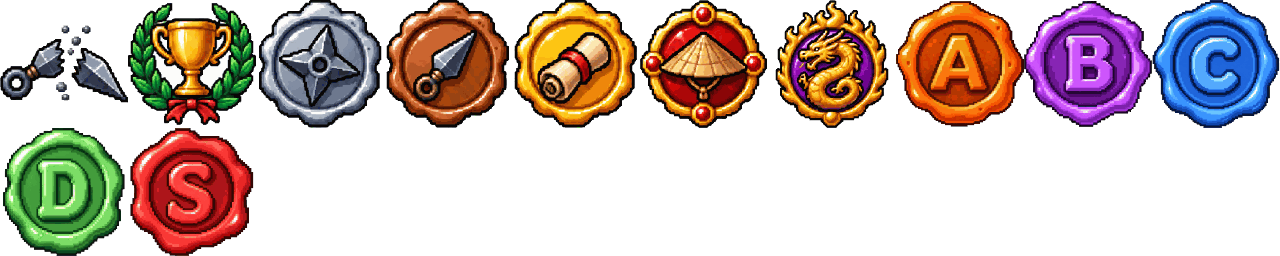
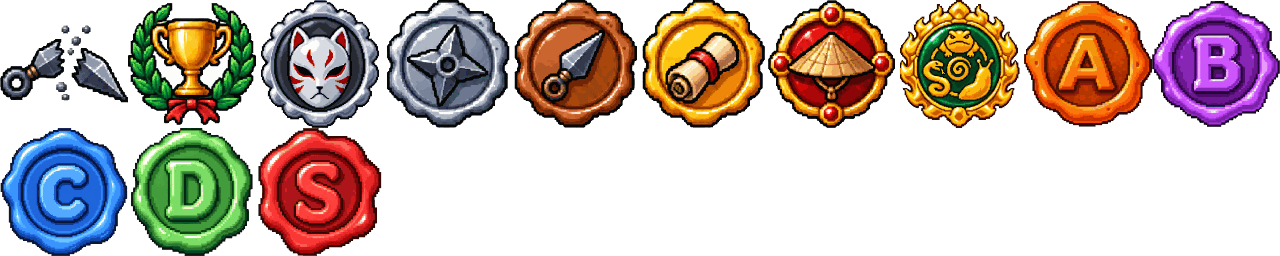
Duelos: ligas com as patentes ninja (Genin a Sannin, com ANBU) e defesas redesenhadas
Ligas: Genin, Chunin, Jounin, ANBU (1400), Kage (1550) e Sannin (1700),
com emblemas novos de ANBU (máscara) e Sannin (sapo, serpente e lesma)
no lugar da "liga das lendas". Defesas: números em blocos (desafios,
segurou, perdeu, pontos) e linhas com o boneco e a liga de quem atacou
(o servidor passa a mandar o retrato e os pontos do atacante), borda
verde/vermelha; o aviso "Enquanto você estava fora" usa o mesmo relatório
sobre o fundo da arena. Pedaços compartilhados em ui/duelArt.ts.

diff --git a/src/ui/panel.ts b/src/ui/panel.ts
@@ -1,7 +1,6 @@
 // Painel lateral de detalhes. Estrutura HTML só é recriada quando muda;
 // valores dinâmicos (barras, números) são atualizados in-place via data-t / data-b.
 import type { App } from '../app';
-import type { Game } from '../game/game';
 import { ANIMALS } from '../data/animals';
 import { BUILDINGS, defOf } from '../data/buildings';
 import { ROGUE_ROLES } from '../data/enemies';
@@ -63,8 +62,9 @@ import { AWAKEN_COST, awakenKekkei, awakenOptions, canFoundClan, clanMembers, cl
 import { KEKKEI, KEKKEI_LIST, KEKKEI_STAT, type KekkeiId } from '../data/kekkei';
 import { arenaSpots, EXAM_MIN_LEVEL, examLabel, examSize, examStatus, setExamSize, startExam } from '../game/exam';
 import { duelBlock, duelCandidates, duelist, setDuelist, startDuel } from '../game/duel';
-import { decodeSnapshot, encodeSnapshot, type NinjaSnapshot, snapshotOf, unitFromSnapshot } from '../game/snapshot';
+import { decodeSnapshot, encodeSnapshot, type NinjaSnapshot, snapshotOf } from '../game/snapshot';
 import { arena, leagueOf, type NinjaBrief, nextLeague, type Opponent } from './arenaClient';
+import { defenseRow, defenseStats, leagueBadge, snapshotPortrait } from './duelArt';
 import { MISSION_RANKS, MISSION_TYPE_LABEL } from '../data/missions';
 import { ITEM_LIST, ITEMS, SLOT_LABEL, type ItemDef, type ItemSlot } from '../data/items';
 import { autoEquip, cancelCraft, carried, carryMax, craftBlock, enqueueCraft, equip, gearBonus, isWorkshop, owned, recipesOf, stock, unequip, autoEquipAll, setAutoGear } from '../game/gear';
@@ -2489,31 +2489,12 @@ export class Panel {
     return sameDay ? d.toLocaleTimeString('pt-BR', { hour: '2-digit', minute: '2-digit' }) : d.toLocaleDateString('pt-BR', { day: '2-digit', month: '2-digit' });
   }
 
-  /** Emblema da liga pela pontuação (atlas dos selos; sem a arte, só o nome). */
   private leagueBadge(rating: number, cls = 'dl-lg') {
-    const l = leagueOf(rating);
-    return atlasCell(BADGE_RANKS, l.emblem, cls, tipAttr(l.name, `${rating} pontos`, true)) ?? `<span class="mchip" ${tipAttr(l.name, `${rating} pontos`, true)}>${esc(l.name)}</span>`;
+    return leagueBadge(rating, cls);
   }
-
-  /** Retrato (corpo inteiro) do ninja de um retrato recebido: cria a unidade fora do jogo só para desenhar. */
   private snapshotPortrait(code: string): string | null {
-    const hit = Panel.snapPortraits.get(code);
-    if (hit !== undefined) return hit;
-    const snap = decodeSnapshot(code);
-    let url: string | null = null;
-    if (snap) {
-      const u = unitFromSnapshot(Panel.portraitGame, snap, 0, 0);
-      // o penteado sai do id: um id estável pelo nome (ids negativos quebrariam o módulo)
-      u.id = [...snap.name].reduce((a, c) => (a * 31 + c.charCodeAt(0)) % 9973, 7);
-      url = unitPortrait(u, true);
-    }
-    // null = a arte ainda está sendo montada (quem chama mostra o esqueleto e tenta de novo na próxima remontagem)
-    if (url || !snap) Panel.snapPortraits.set(code, url);
-    return url;
+    return snapshotPortrait(code);
   }
-  private static snapPortraits = new Map<string, string | null>();
-  /** "Jogo" mínimo para criar a unidade do retrato sem mexer na vila (createNinja só usa newId e addUnit). */
-  private static portraitGame = { newId: () => -1, addUnit: (u: Unit) => u } as unknown as Game;
 
   /** Jutsus, kekkei e equipamento de um retrato (perfil do adversário). */
   private snapshotProfile(snap: NinjaSnapshot) {
@@ -2645,13 +2626,8 @@ export class Panel {
     let html = `<div class="bsec"><h4>Defesas do seu retrato ${infoTip('Defesas', 'Quem desafiou o seu retrato enquanto você estava fora, e como foi. Revanche: enfrentar o retrato de quem venceu o seu.')}</h4>`;
     if (!d) return html + `<p class="hint">${arena.offline ? 'Sem conexão com o servidor.' : 'Carregando...'}</p></div>`;
     if (!d.defenses.length) return html + `<p class="hint">Ninguém desafiou o seu retrato ainda. Publique-o na aba Duelo para entrar no sorteio.</p></div>`;
-    html += `<ul class="dl-defs">`;
-    for (const x of d.defenses) {
-      const pill = x.left ? `<span class="mpill info">Desistiu</span>` : x.held ? `<span class="mpill safe">Segurou</span>` : `<span class="mpill danger">Perdeu</span>`;
-      html += `<li class="${x.unseen ? 'new' : ''}">${pill}<span class="dl-name"><b>${esc(x.attacker.name)}</b><small>${x.attackerNinja ? `${esc(x.attackerNinja.name)} · ${esc(RANKS[x.attackerNinja.rank as Rank]?.name ?? x.attackerNinja.rank)} Nv ${x.attackerNinja.level}` : ''}</small></span>
-        <span class="dl-delta ${x.defDelta != null && x.defDelta < 0 ? 'bad' : ''}">${x.defDelta == null ? '' : `${x.defDelta >= 0 ? '+' : ''}${x.defDelta}`}</span><small>${this.when(x.at)}</small>
-        ${!x.held && !x.revenged ? `<button class="btn mini" data-act="arena-revenge" data-arg="${x.attacker.id}">{swords} Revanche</button>` : ''}</li>`;
-    }
+    html += defenseStats(d.defenses) + `<ul class="dl-defs">`;
+    for (const x of d.defenses) html += defenseRow(x);
     return html + `</ul></div>`;
   }
 

diff --git a/src/ui/duelArt.ts b/src/ui/duelArt.ts
@@ -1,0 +1,64 @@
+// Pedaços visuais dos duelos usados pela janela Duelos (panel.ts) e pelo aviso "Enquanto você estava fora" (index.ts):
+// boneco de um retrato recebido, emblema da liga e o relatório das defesas.
+import { RANKS, type Rank } from '../data/ninja';
+import type { Game } from '../game/game';
+import { decodeSnapshot, unitFromSnapshot } from '../game/snapshot';
+import type { Unit } from '../game/types';
+import { unitPortrait } from '../render/sprites';
+import { type Defense, leagueOf } from './arenaClient';
+import { esc } from './dom';
+import { atlasCell } from './icons';
+import { tipAttr } from './popup';
+import { BADGE_RANKS } from './pxicons';
+
+/** "Jogo" mínimo para criar a unidade do retrato sem mexer na vila (createNinja só usa newId e addUnit). */
+const portraitGame = { newId: () => -1, addUnit: (u: Unit) => u } as unknown as Game;
+const portraits = new Map<string, string>();
+
+/** Retrato (corpo inteiro) do ninja de um retrato recebido; null enquanto a arte monta (não vai para o cache). */
+export function snapshotPortrait(code: string | null | undefined): string | null {
+  if (!code) return null;
+  const hit = portraits.get(code);
+  if (hit) return hit;
+  const snap = decodeSnapshot(code);
+  if (!snap) return null;
+  const u = unitFromSnapshot(portraitGame, snap, 0, 0);
+  // o penteado sai do id: um id estável pelo nome (ids negativos quebrariam o módulo)
+  u.id = [...snap.name].reduce((a, c) => (a * 31 + c.charCodeAt(0)) % 9973, 7);
+  const url = unitPortrait(u, true);
+  if (url) portraits.set(code, url);
+  return url;
+}
+
+/** Emblema da liga pela pontuação (atlas dos selos; sem a arte, só o nome). */
+export function leagueBadge(rating: number, cls = 'dl-lg') {
+  const l = leagueOf(rating);
+  return atlasCell(BADGE_RANKS, l.emblem, cls, tipAttr(l.name, `${rating} pontos`, true)) ?? `<span class="mchip" ${tipAttr(l.name, `${rating} pontos`, true)}>${esc(l.name)}</span>`;
+}
+
+/** Imagem com esqueleto enquanto carrega (igual ao `pimg` do painel). */
+export const pimg = (url: string | null | undefined, cls = '') =>
+  url ? `<img class="${cls} pim" src="${url}" alt="" draggable="false" decoding="async" loading="lazy" onload="this.classList.add('ok')">` : `<span class="${cls} skel"></span>`;
+
+export function when(iso: string) {
+  const d = new Date(iso);
+  const sameDay = d.toDateString() === new Date().toDateString();
+  return sameDay ? d.toLocaleTimeString('pt-BR', { hour: '2-digit', minute: '2-digit' }) : d.toLocaleDateString('pt-BR', { day: '2-digit', month: '2-digit' });
+}
+
+/** Resumo em números das defesas listadas: desafios, seguradas, perdidas e saldo de pontos. */
+export function defenseStats(list: Defense[]) {
+  const held = list.filter((x) => x.held).length;
+  const delta = list.reduce((s, x) => s + (x.defDelta ?? 0), 0);
+  return `<div class="dl-dstats"><div><b>${list.length}</b><small>desafio(s)</small></div><div class="ok"><b>${held}</b><small>segurou</small></div><div class="bad"><b>${list.length - held}</b><small>perdeu</small></div><div class="${delta >= 0 ? 'ok' : 'bad'}"><b>${delta >= 0 ? '+' : ''}${delta}</b><small>pontos</small></div></div>`;
+}
+
+/** Uma defesa: boneco e liga de quem atacou, nome, ninja, resultado, delta, hora e a revanche (se couber). */
+export function defenseRow(x: Defense, revenge = true) {
+  const pill = x.left ? `<span class="mpill info">Desistiu</span>` : x.held ? `<span class="mpill safe">Segurou</span>` : `<span class="mpill danger">Perdeu</span>`;
+  const ninja = x.attackerNinja ? `${esc(x.attackerNinja.name)} · ${esc(RANKS[x.attackerNinja.rank as Rank]?.name ?? x.attackerNinja.rank)} Nv ${x.attackerNinja.level}` : '';
+  return `<li class="dl-def ${x.unseen ? 'new' : ''} ${x.held ? 'held' : 'lost'}"><span class="dl-face sm">${pimg(snapshotPortrait(x.attackerCode))}</span>
+    <span class="dl-name"><b>${leagueBadge(x.attackerRating, 'dl-lg sm')} ${esc(x.attacker.name)}</b><small>${ninja}</small></span>
+    ${pill}<span class="dl-delta ${x.defDelta != null && x.defDelta < 0 ? 'bad' : ''}">${x.defDelta == null ? '' : `${x.defDelta >= 0 ? '+' : ''}${x.defDelta}`}</span><small class="dl-when">${when(x.at)}</small>
+    ${revenge && !x.held && !x.revenged ? `<button class="btn mini" data-act="arena-revenge" data-arg="${x.attacker.id}">{swords} Revanche</button>` : ''}</li>`;
+}

diff --git a/server/src/services/duels.ts b/server/src/services/duels.ts
@@ -1,7 +1,7 @@
 // Retratos e duelos assíncronos (molde do Duelo do battlecard-server): o jogador publica o retrato do campeão; outro
 // jogador busca um adversário de força parecida, luta no próprio aparelho contra a cópia do retrato e manda o
 // resultado. ELO próprio: K 32 para quem ataca, K 16 para quem defende (o defensor não estava lá).
-import { decodeSnapshot, type NinjaSnapshot } from '../../../src/game/snapshot';
+import { decodeSnapshot, encodeSnapshot, type NinjaSnapshot } from '../../../src/game/snapshot';
 import { STAT_KEYS } from '../../../src/data/ninja';
 import { sql } from '../db';
 import { ApiError } from '../errors';
@@ -54,6 +54,9 @@ export interface Defense {
   at: string;
   attacker: { id: string; name: string };
   attackerNinja: { name: string; rank: string; level: number } | null;
+  /** Retrato (texto VN1) do ninja que atacou e pontos dele: o jogo desenha o boneco e a liga. */
+  attackerCode: string | null;
+  attackerRating: number;
   /** O retrato segurou. */
   held: boolean;
   /** Quem atacou largou o duelo. */
@@ -249,11 +252,11 @@ export const duels = {
   async defenses(userId: string): Promise<{ defenses: Defense[]; unseen: number; rating: number }> {
     const me = await this.stats(userId);
     const [seen] = await sql<Array<{ at: Date | null }>>`SELECT report_seen_at as at FROM duel_stats WHERE user_id = ${userId}`;
-    const rows = await sql<Array<{ id: string; at: Date; attackerId: string; name: string; attackerSnapshot: NinjaSnapshot | null; won: boolean; endReason: string | null; summary: Record<string, unknown> | null; revenged: boolean }>>`
+    const rows = await sql<Array<{ id: string; at: Date; attackerId: string; name: string; attackerSnapshot: NinjaSnapshot | null; attackerRating: number | null; won: boolean; endReason: string | null; summary: Record<string, unknown> | null; revenged: boolean }>>`
       SELECT d.id, d.finished_at as at, a.id as "attackerId", a.display_name as name, d.attacker_snapshot as "attackerSnapshot",
-        d.won, d.end_reason as "endReason", d.summary,
+        ds.rating as "attackerRating", d.won, d.end_reason as "endReason", d.summary,
         EXISTS (SELECT 1 FROM duels r WHERE r.attacker_id = ${userId} AND r.defender_id = a.id AND r.started_at > d.started_at) as revenged
-      FROM duels d JOIN users a ON a.id = d.attacker_id
+      FROM duels d JOIN users a ON a.id = d.attacker_id LEFT JOIN duel_stats ds ON ds.user_id = a.id
       WHERE d.defender_id = ${userId} AND d.finished_at IS NOT NULL AND NOT a.is_test
       ORDER BY d.finished_at DESC LIMIT ${DUEL.REPORT_LIMIT}
     `;
@@ -263,6 +266,8 @@ export const duels = {
       at: new Date(r.at).toISOString(),
       attacker: { id: r.attackerId, name: r.name },
       attackerNinja: r.attackerSnapshot ? { name: r.attackerSnapshot.name, rank: r.attackerSnapshot.rank, level: r.attackerSnapshot.level } : null,
+      attackerCode: r.attackerSnapshot ? encodeSnapshot(r.attackerSnapshot) : null,
+      attackerRating: r.attackerRating ?? DUEL.START_RATING,
       held: !r.won,
       left: r.endReason === 'abandon' || r.endReason === 'retreat',
       defDelta: typeof r.summary?.defDelta === 'number' ? (r.summary.defDelta as number) : null,

diff --git a/src/ui/pxicons.ts b/src/ui/pxicons.ts
@@ -26,5 +26,5 @@ import ar_scene_winter from '../art/ui/art/scene-winter.png';
 /** Um atlas: imagem, colunas × linhas e a casa (coluna, linha) de cada item. */
 export interface Atlas { url: string; cols: number; rows: number; pos: Record<string, [number, number]> }
 export const ICONS: Atlas = { url: atlas_icons, cols: 10, rows: 4, pos: { 'anvil': [0, 0], 'arena': [1, 0], 'beast': [2, 0], 'blade-dark': [3, 0], 'bomb': [4, 0], 'candle': [5, 0], 'castle': [6, 0], 'chakra-crystal': [7, 0], 'crystal': [8, 0], 'darksteel': [9, 0], 'drop': [0, 1], 'eclipse': [1, 1], 'food': [2, 1], 'gold': [3, 1], 'hammer': [4, 1], 'herbs': [5, 1], 'iron': [6, 1], 'kunai': [7, 1], 'map': [8, 1], 'ninja': [9, 1], 'paper': [0, 2], 'path-slug': [1, 2], 'path-snake': [2, 2], 'path-toad': [3, 2], 'pickaxe': [4, 2], 'pill': [5, 2], 'ryo': [6, 2], 'scroll': [7, 2], 'select': [8, 2], 'shield': [9, 2], 'stone': [0, 3], 'swords': [1, 3], 'vest-crystal': [2, 3], 'vest': [3, 3], 'wood': [4, 3] } };
-export const BADGE_RANKS: Atlas = { url: atlas_badge_ranks, cols: 10, rows: 2, pos: { 'duel-lose': [0, 0], 'duel-win': [1, 0], 'league-chunin': [2, 0], 'league-genin': [3, 0], 'league-jounin': [4, 0], 'league-kage': [5, 0], 'league-legend': [6, 0], 'seal-A': [7, 0], 'seal-B': [8, 0], 'seal-C': [9, 0], 'seal-D': [0, 1], 'seal-S': [1, 1] } };
+export const BADGE_RANKS: Atlas = { url: atlas_badge_ranks, cols: 10, rows: 2, pos: { 'duel-lose': [0, 0], 'duel-win': [1, 0], 'league-anbu': [2, 0], 'league-chunin': [3, 0], 'league-genin': [4, 0], 'league-jounin': [5, 0], 'league-kage': [6, 0], 'league-sannin': [7, 0], 'seal-A': [8, 0], 'seal-B': [9, 0], 'seal-C': [0, 1], 'seal-D': [1, 1], 'seal-S': [2, 1] } };
 export const ART: Record<string, string> = { 'beast-slug': ar_beast_slug, 'beast-snake': ar_beast_snake, 'beast-toad': ar_beast_toad, 'duel-arena-bg': ar_duel_arena_bg, 'duel-banner': ar_duel_banner, 'duel-vs': ar_duel_vs, 'kage-bg': ar_kage_bg, 'kunai-card': ar_kunai_card, 'perk-buildings': ar_perk_buildings, 'perk-clans': ar_perk_clans, 'perk-kage': ar_perk_kage, 'perk-taxes': ar_perk_taxes, 'perk-territory': ar_perk_territory, 'perk-threat': ar_perk_threat, 'scene-autumn': ar_scene_autumn, 'scene-festival': ar_scene_festival, 'scene-spring': ar_scene_spring, 'scene-summer': ar_scene_summer, 'scene-village': ar_scene_village, 'scene-winter': ar_scene_winter };

diff --git a/src/ui/index.ts b/src/ui/index.ts
@@ -18,6 +18,8 @@ import { BattleCam } from './battle';
 import { Panel, type View } from './panel';
 import { applyKit } from './kit';
 import { arena } from './arenaClient';
+import { defenseRow, defenseStats, snapshotPortrait } from './duelArt';
+import { ART } from './pxicons';
 import dockBarUrl from '../art/ui/frame/dock-bar.png';
 import windowFrameUrl from '../art/ui/frame/window-frame.png';
 import kitDialog from '../art/ui/frame/dialog.png';
@@ -92,15 +94,19 @@ export function createUI(app: App, root: HTMLElement) {
   void arena.boot().then((fresh) => {
     if (!fresh || !arena.defenses) return;
     const d = arena.defenses.defenses.filter((x) => x.unseen);
-    const held = d.filter((x) => x.held).length;
-    const delta = d.reduce((s, x) => s + (x.defDelta ?? 0), 0);
-    showAlert({
-      kind: 'info',
-      title: 'Enquanto você estava fora',
-      text: `${d.length} ninja(s) desafiaram o seu retrato: ${held} defesa(s) segura(s), ${d.length - held} perdida(s) (${delta >= 0 ? '+' : ''}${delta} pontos).`,
-      rows: d.slice(0, 5).map((x) => `${x.held ? '{shield}' : '{skull}'} ${x.attacker.name}${x.attackerNinja ? ` (${x.attackerNinja.name})` : ''}`),
-      action: { label: '{swords} Ver defesas', run: () => win.show({ kind: 'duelDefenses' }) },
-    });
+    const more = d.length > 4 ? `<p class="hint">e mais ${d.length - 4} na aba Defesas.</p>` : '';
+    // os bonecos dos atacantes são montados na primeira chamada (assíncrono): pede agora e mostra o aviso logo depois
+    for (const x of d.slice(0, 4)) snapshotPortrait(x.attackerCode);
+    setTimeout(
+      () =>
+        showAlert({
+          kind: 'info',
+          title: 'Enquanto você estava fora',
+          extra: `<div class="dl-report" style="${ART['duel-arena-bg'] ? `background-image:url('${ART['duel-arena-bg']}')` : ''}"><p class="dl-report-t">{swords} Seu retrato foi desafiado</p>${defenseStats(d)}<ul class="dl-defs">${d.slice(0, 4).map((x) => defenseRow(x, false)).join('')}</ul>${more}</div>`,
+          action: { label: '{swords} Ver defesas', run: () => win.show({ kind: 'duelDefenses' }) },
+        }),
+      700,
+    );
   });
   const btnSelect = dock.querySelector<HTMLElement>('[data-act="select"]')!;
   dock.addEventListener('pointerdown', (e) => e.stopPropagation());

diff --git a/src/ui/styles.css b/src/ui/styles.css
@@ -2925,3 +2925,24 @@ h4:not(.plain) { margin: 0.95rem 0 0.45rem; }
 #alertbox .card:has(.dl-vs) { max-width: 38rem; width: min(38rem, 96vw); }
 #alertbox .dl-vs-side .nc-js { display: flex; flex-wrap: wrap; justify-content: center; gap: 0.25rem; max-width: 100%; }
 #alertbox .dl-vs-side .njs > span { max-width: 7rem; }
+/* defesas: números em blocos e linhas com o boneco e a liga de quem atacou; aviso "Enquanto você estava fora" */
+.dl-dstats { display: grid; grid-template-columns: repeat(4, minmax(0, 1fr)); gap: 0.4rem; margin: 0.3rem 0 0.6rem; }
+.dl-dstats > div { display: flex; flex-direction: column; align-items: center; padding: 0.45rem 0.3rem; border-radius: 0.5rem; background: var(--card-hi); }
+.dl-dstats b { font-size: 1.35rem; font-variant-numeric: tabular-nums; line-height: 1.1; }
+.dl-dstats small { color: var(--muted); font-size: 0.75rem; }
+.dl-dstats .ok b { color: var(--good); }
+.dl-dstats .bad b { color: var(--bad); }
+.dl-defs li.dl-def { gap: 0.55rem; padding: 0.4rem 0.55rem; border-left: 3px solid var(--good); }
+.dl-defs li.dl-def.lost { border-left-color: var(--bad); }
+.dl-defs li.dl-def.new { outline: 1px solid rgba(255, 211, 77, 0.6); }
+.dl-face.sm .pim, .dl-face.sm .skel { width: 2.6rem; height: 2.6rem; border-radius: 0.4rem; background: var(--card); object-fit: contain; image-rendering: pixelated; }
+.dl-lg.sm { width: 1.25rem; height: 1.25rem; vertical-align: -0.25rem; margin-right: 0.15rem; }
+.dl-when { color: var(--muted); }
+#alertbox .card:has(.dl-report) { max-width: 34rem; width: min(34rem, 96vw); }
+#alertbox .dl-report { position: relative; margin: 1rem 0 0.3rem; padding: 0.6rem 0.7rem; border-radius: var(--r); background: #2a1a10 center / cover no-repeat; image-rendering: pixelated; overflow: hidden; color: #e8dcc4; }
+#alertbox .dl-report::before { content: ''; position: absolute; inset: 0; background: rgba(20, 12, 6, 0.72); }
+#alertbox .dl-report > * { position: relative; }
+#alertbox .dl-report-t { margin: 0 0 0.3rem; font-weight: 800; color: var(--warn); }
+#alertbox .dl-report .dl-dstats > div { background: rgba(0, 0, 0, 0.35); }
+#alertbox .dl-report .dl-defs li { background: rgba(0, 0, 0, 0.35); }
+#alertbox .dl-report .hint { margin: 0.4rem 0 0; color: #cdbf9f; }

diff --git a/src/ui/arenaClient.ts b/src/ui/arenaClient.ts
@@ -56,6 +56,9 @@ export interface Defense {
   at: string;
   attacker: { id: string; name: string };
   attackerNinja: NinjaBrief | null;
+  /** Retrato VN1 do ninja que atacou (para desenhar o boneco) e os pontos dele (liga). */
+  attackerCode: string | null;
+  attackerRating: number;
   held: boolean;
   left: boolean;
   defDelta: number | null;
@@ -94,13 +97,14 @@ const ERROR_TEXT: Record<string, string> = {
   OFFLINE: 'Sem conexão com o servidor de duelos.',
 };
 
-/** Ligas por pontuação (emblemas `league-*` no atlas dos selos). */
+/** Ligas por pontuação, com os nomes das patentes ninja (pedido do autor); emblemas `league-*` no atlas dos selos. */
 export const LEAGUES: { min: number; name: string; emblem: string }[] = [
   { min: 0, name: 'Liga Genin', emblem: 'league-genin' },
   { min: 1100, name: 'Liga Chunin', emblem: 'league-chunin' },
   { min: 1250, name: 'Liga Jounin', emblem: 'league-jounin' },
-  { min: 1400, name: 'Liga Kage', emblem: 'league-kage' },
-  { min: 1600, name: 'Liga das Lendas', emblem: 'league-legend' },
+  { min: 1400, name: 'Liga ANBU', emblem: 'league-anbu' },
+  { min: 1550, name: 'Liga Kage', emblem: 'league-kage' },
+  { min: 1700, name: 'Liga Sannin', emblem: 'league-sannin' },
 ];
 export function leagueOf(rating: number) {
   let out = LEAGUES[0]!;

diff --git a/server/tests/arena.test.ts b/server/tests/arena.test.ts
@@ -140,6 +140,8 @@ describe.skipIf(!dbOk)('servidor de duelos', () => {
     expect(def.data.unseen).toBe(1);
     expect(def.data.defenses[0]).toMatchObject({ held: false, left: false, defDelta: -8, revenged: false });
     expect(def.data.defenses[0].attackerNinja.rank).toBe('genin');
+    expect(def.data.defenses[0].attackerCode.startsWith('VN1.')).toBe(true);
+    expect(def.data.defenses[0].attackerRating).toBe(999);
     await api('POST', '/api/duel/defenses/seen', {}, b);
     expect((await api('GET', '/api/duel/defenses', undefined, b)).data.unseen).toBe(0);
     const rev = await api('GET', `/api/duel/opponent/${def.data.defenses[0].attacker.id}`, undefined, b);

diff --git a/docs/sistemas/interface.md b/docs/sistemas/interface.md
@@ -117,11 +117,15 @@
   liga, pontos, força e o perfil (jutsus, kekkei, equipamento: `snapshotProfile`); **tela VS** (`arenaVersus`, em
   `showAlert` largo `.dl-vs`: os dois bonecos, patente, nível, força e jutsus em volta do emblema `ART['duel-vs']` com o
   "VS" escrito por CSS; "Hajime!" chama `arenaFight`); resultado em cartão `.dl-result` com o emblema `duel-win`/`duel-lose`
-  e o delta grande; **ligas** por pontuação (`LEAGUES`/`leagueOf` em arenaClient.ts: Genin até 1099, Chunin 1100,
-  Jounin 1250, Kage 1400, Lendas 1600; emblemas `league-*` no atlas dos selos `badge-ranks.png`, `leagueBadge`) na faixa,
-  no cartão do adversário e no ranking; bolinha vermelha `.dock-badge` no botão Duelos com as defesas novas e o aviso
-  "Enquanto você estava fora" ao abrir o jogo (`arena.boot` em ui/index.ts, só para quem já tem token). Atlas dos selos
-  agora tem 12 casas em 10×2 (`scripts/prepare-ui.py`; `KEEP` preserva o `ui-scroll`, que vem de outro script).
+  e o delta grande; **ligas** com os nomes das patentes (pedido do autor; `LEAGUES`/`leagueOf` em arenaClient.ts:
+  Genin até 1099, Chunin 1100, Jounin 1250, ANBU 1400, Kage 1550, Sannin 1700; emblemas `league-*` no atlas dos selos
+  `badge-ranks.png`, `leagueBadge`) na faixa, no cartão do adversário, no ranking e nas defesas; **defesas** com números
+  em blocos (`defenseStats`: desafios, segurou, perdeu, pontos) e linhas com o boneco e a liga de quem atacou
+  (`defenseRow`; o servidor manda `attackerCode`/`attackerRating`), borda verde/vermelha; o aviso "Enquanto você estava
+  fora" ao abrir o jogo usa o mesmo relatório sobre o fundo da arena (`.dl-report`, `arena.boot` em ui/index.ts, só
+  para quem já tem token) e a bolinha vermelha `.dock-badge` no botão Duelos conta as novas. Esses pedaços ficam em
+  `ui/duelArt.ts` (`snapshotPortrait`, `leagueBadge`, `defenseStats`, `defenseRow`), usados pela janela e pelo aviso.
+  Atlas dos selos com 13 casas em 10×2 (`scripts/prepare-ui.py`; `KEEP` preserva o `ui-scroll`, que vem de outro script).
 - Painel de inimigo/animal tem a seção "Atacar" (mais próximos / equipe / todos) — `availableFighters` em teams.ts.
 - **Inventário do ninja** (aba "Inventário" do drawer, `equipSection`): boneco no meio com os espaços em volta (arma, colete,
   consumível) e o bônus somado; embaixo a grade do estoque com filtro por tipo (`invFilter`), seta verde no que é melhor
